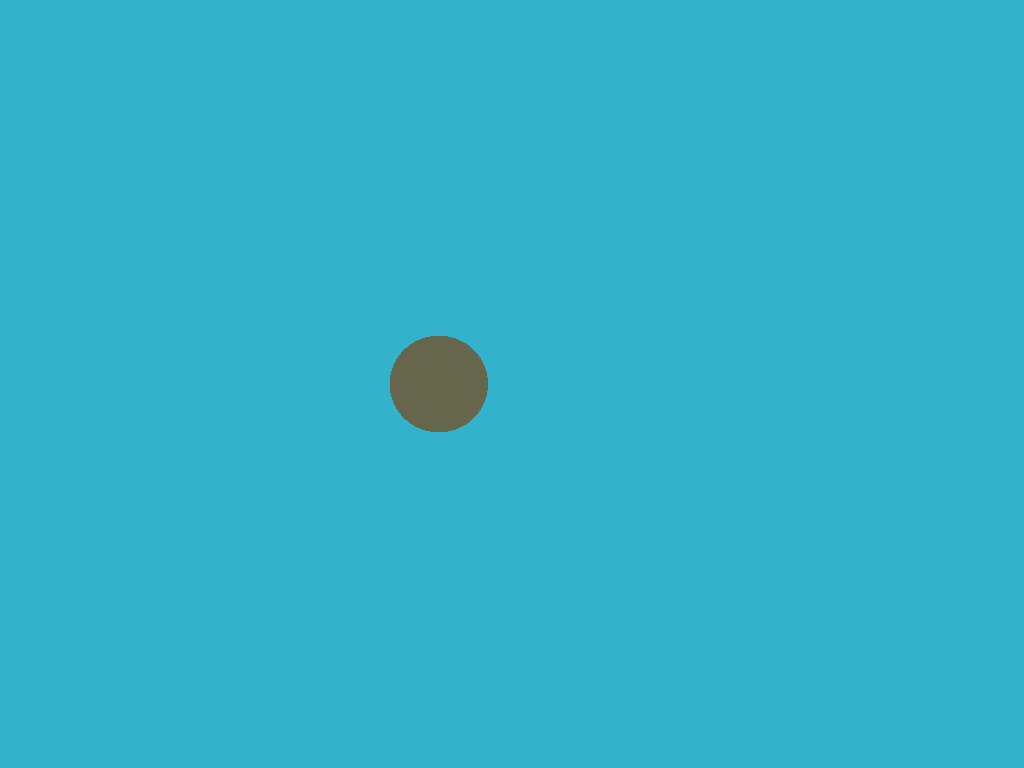
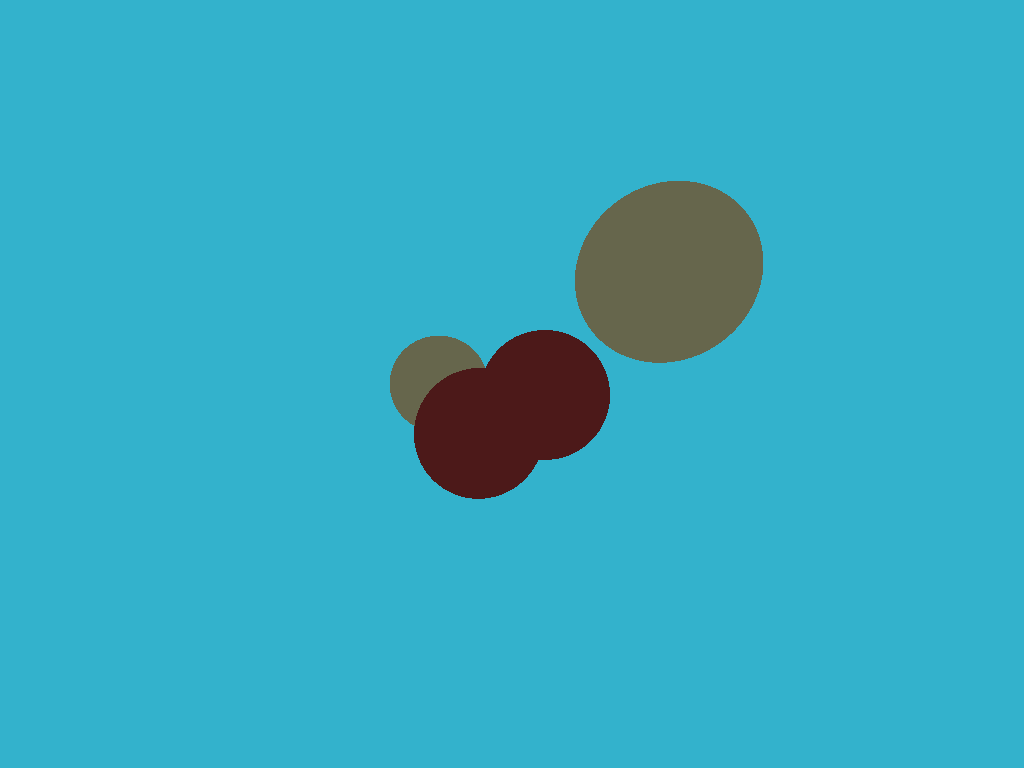
Finish step 3

Changed region(s): [[0.4062, 0.2188, 0.75, 0.6562]]

diff --git a/src/main.rs b/src/main.rs
@@ -3,12 +3,32 @@ use std::io::prelude::*;
 
 type Vec3f = [f32; 3];
 
+#[derive(Copy, Clone)]
+struct Material {
+    diffuse_color: Vec3f,
+}
+
+impl Material {
+    fn new(diffuse_color: Vec3f) -> Self {
+        Self { diffuse_color }
+    }
+}
+
 struct Sphere {
     center: Vec3f,
     radius: f32,
+    material: Material,
 }
 
 impl Sphere {
+    fn new(center: Vec3f, radius: f32, material: Material) -> Self {
+        Self {
+            center,
+            radius,
+            material,
+        }
+    }
+
     fn ray_intersect(&self, orig: &Vec3f, dir: &Vec3f) -> Option<f32> {
         let l = sub_vec(&self.center, &orig);
         let tca = dot_vec(&l, &dir);
@@ -41,6 +61,33 @@ impl Sphere {
     }
 }
 
+fn scene_intersect<'a>(orig: &Vec3f, dir: &Vec3f, spheres: &'a Vec<Sphere>) -> Option<&'a Sphere> {
+    // Find the closest intersecting sphere
+    let closest_intersecting = spheres
+        .iter()
+        // Are there other methods which can be used, so we only need to
+        // iterate a single time?
+        .filter_map(|sphere| {
+            if let Some(distance) = sphere.ray_intersect(&orig, &dir) {
+                return Some((distance, sphere));
+            }
+            None
+        })
+        .min_by_key(|(distance, _)| *distance as u32);
+
+    match closest_intersecting {
+        Some((_, sphere)) => Some(sphere),
+        None => None,
+    }
+}
+
+fn cast_ray(orig: &Vec3f, dir: &Vec3f, spheres: &Vec<Sphere>) -> Vec3f {
+    match scene_intersect(orig, dir, spheres) {
+        Some(sphere) => sphere.material.diffuse_color,
+        None => [0.2, 0.7, 0.8], // Background color
+    }
+}
+
 fn sub_vec(a: &Vec3f, b: &Vec3f) -> Vec3f {
     [a[0] - b[0], a[1] - b[1], a[2] - b[2]]
 }
@@ -66,7 +113,7 @@ fn normalize_vec(vec: &Vec3f) -> Vec3f {
     [vec[0] * inv_len, vec[1] * inv_len, vec[2] * inv_len]
 }
 
-fn render(sphere: &Sphere) -> std::io::Result<()> {
+fn render(spheres: &Vec<Sphere>) -> std::io::Result<()> {
     const WIDTH: usize = 1024;
     const HEIGHT: usize = 768;
     const FOV: f32 = std::f32::consts::PI / 2.0;
@@ -81,7 +128,7 @@ fn render(sphere: &Sphere) -> std::io::Result<()> {
                     / HEIGHT as f32;
             let y = -(2.0 * (j as f32 + 0.5) / HEIGHT as f32 - 1.0) * (FOV / 2.0).tan();
             let dir = normalize_vec(&[x, y, -1.0]);
-            framebuffer[i + j * WIDTH] = sphere.cast_ray(&[0.0, 0.0, 0.0], &dir);
+            framebuffer[i + j * WIDTH] = cast_ray(&[0.0, 0.0, 0.0], &dir, &spheres);
         }
     }
 
@@ -101,9 +148,14 @@ fn render(sphere: &Sphere) -> std::io::Result<()> {
 }
 
 fn main() -> std::io::Result<()> {
-    let sphere = Sphere {
-        center: [-3.0, 0.0, -16.0],
-        radius: 2.0,
-    };
-    render(&sphere)
+    let ivory = Material::new([0.4, 0.4, 0.3]);
+    let red_rubber = Material::new([0.3, 0.1, 0.1]);
+
+    let mut spheres = vec![];
+    spheres.push(Sphere::new([7., 5., -18.], 4.0, ivory));
+    spheres.push(Sphere::new([-3.0, 0.0, -16.0], 2.0, ivory));
+    spheres.push(Sphere::new([-1.0, -1.5, -12.], 2.0, red_rubber));
+    spheres.push(Sphere::new([1.5, -0.5, -18.], 3.0, red_rubber));
+
+    render(&spheres)
 }
